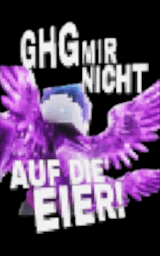
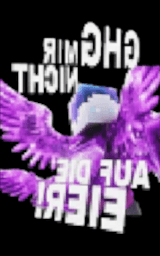
Cloudy 0.9.43: 19 neue Cloudy-Mods, Umhaenge gespiegelt, Client-Stand-Pruefung toleranter
Claude-Session: https://claude.ai/code/session_01WuMU7WTSMorevmWatAx2c9

diff --git a/main.js b/main.js
@@ -658,14 +658,18 @@ const clientFile = path.join(app.getPath('userData'), 'client.json');
 const capeFile = path.join(app.getPath('userData'), 'cape.png');
 const userClientDir = path.join(app.getPath('userData'), 'client');
 const jarMarks = new Map(); // Pfad+Änderungszeit -> hat das Jar den aktuellen Stand?
-const jarFresh = f => { try { const k = f + ':' + fs.statSync(f).mtimeMs; if (jarMarks.has(k)) return jarMarks.get(k); const z = openZip(f); let ok = false; try { ok = z.has('app/cloudy/client/CosmeticsScreen.class') && z.has('cloudy-cos/build-' + CLIENT_BUILD + '.txt'); } finally { z.close(); } jarMarks.set(k, ok); return ok; } catch { return false; } };
+const vNum = v => String(v || '').split('.').map(x => parseInt(x, 10) || 0);
+const buildGE = (a, b) => { const x = vNum(a), y = vNum(b); for (let i = 0; i < 3; i++) { if ((x[i] || 0) !== (y[i] || 0)) return (x[i] || 0) > (y[i] || 0); } return true; }; // gleicher oder neuerer Client-Stand zaehlt als aktuell
+const zipBuild = z => { let best = ''; for (const n of z.names()) { const q = /^cloudy-cos\/build-(\d+\.\d+\.\d+)\.txt$/.exec(n); if (q && (!best || buildGE(q[1], best))) best = q[1]; } return best; };
+const jarFresh = f => { try { const k = f + ':' + fs.statSync(f).mtimeMs; if (jarMarks.has(k)) return jarMarks.get(k); const z = openZip(f); let ok = false; try { ok = z.has('app/cloudy/client/CosmeticsScreen.class') && buildGE(zipBuild(z), CLIENT_BUILD); } finally { z.close(); } jarMarks.set(k, ok); return ok; } catch { return false; } };
 const clientJar = mc => { // das Jar mit dem aktuellen Stand gewinnt (z. B. das mitgelieferte aus dem Release), sonst das erste vorhandene – so wird nicht unnötig minutenlang neu gebaut
   const c = (mc ? [path.join(userClientDir, `cloudy-client-${mc}.jar`), ...(mc === '1.21.4' ? [path.join(userClientDir, 'cloudy-client.jar'), path.join(__dirname, 'client', 'cloudy-client.jar')] : [])] : [path.join(userClientDir, 'cloudy-client.jar'), path.join(__dirname, 'client', 'cloudy-client.jar')]).filter(f => fs.existsSync(f));
   return c.find(jarFresh) || c[0];
 };
 const isAdminNow = () => { try { const u = currentUser && readAuth().users[currentUser.toLowerCase()]; return !!(u && u.admin); } catch { return false; } };
-const CLIENT_BUILD = '0.9.42'; // Stand der Client-Mod (nicht die Launcher-Version) – passend zu client-src/.../cloudy-cos/build-<Stand>.txt
-const clientHasCosmetics = mc => { const j = clientJar(mc); if (!j) return false; try { const z = openZip(j); try { return z.has('app/cloudy/client/CosmeticsScreen.class') && z.has('cloudy-cos/build-' + CLIENT_BUILD + '.txt'); } finally { z.close(); } } catch { return false; } };
+const CLIENT_BUILD = '0.9.43'; // Stand der Client-Mod (nicht die Launcher-Version) – passend zu client-src/.../cloudy-cos/build-<Stand>.txt
+const clientHasCosmetics = mc => { const j = clientJar(mc); return !!j && jarFresh(j); };
+const clientBuildOf = mc => { const j = clientJar(mc); if (!j) return ''; try { const z = openZip(j); try { return zipBuild(z) || '(ohne Stand)'; } finally { z.close(); } } catch { return '(unlesbar)'; } };
 
 // Eigener Classpath fuer neue Minecraft-Versionen (26.x): die Bibliotheksliste von minecraft-launcher-core bleibt dort leer (Fehler: KnotClient nicht gefunden)
 async function buildClasspath(custom, mc) {
@@ -770,7 +774,7 @@ function saveCape(buf) {
   if (w < 64 || w % 64 || h * 2 !== w) throw new Error(`Umhang muss 64×32 sein (oder 128×64 …). Deine Datei: ${w}×${h}.`);
   fs.writeFileSync(capeFile, buf);
 }
-ipcMain.handle('clientStatus', (_e, mc) => ({ unlocked: unlocked(), jar: !!clientJar(mc ? bv(mc) : undefined), cosmetics: clientHasCosmetics(mc ? bv(mc) : undefined), building: clientBuilding, src: fs.existsSync(path.join(__dirname, 'client-src', 'build.gradle')), supported: !mc || mcOk(bv(mc)) ? [bv(mc || '1.21.4')] : CLIENT_MC, cape: hasCape() }));
+ipcMain.handle('clientStatus', (_e, mc) => ({ unlocked: unlocked(), jar: !!clientJar(mc ? bv(mc) : undefined), cosmetics: clientHasCosmetics(mc ? bv(mc) : undefined), have: clientBuildOf(mc ? bv(mc) : undefined), want: CLIENT_BUILD, building: clientBuilding, src: fs.existsSync(path.join(__dirname, 'client-src', 'build.gradle')), supported: !mc || mcOk(bv(mc)) ? [bv(mc || '1.21.4')] : CLIENT_MC, cape: hasCape() }));
 ipcMain.handle('clientUnlock', (_e, code) => {
   const a = crypto.createHash('sha256').update(String(code || '').trim()).digest(), b = Buffer.from(CODE_HASH, 'hex');
   if (!crypto.timingSafeEqual(a, b)) return { ok: false };

diff --git a/assets/js/shop.js b/assets/js/shop.js
@@ -422,7 +422,7 @@ const row = (lab, help, field) => `<div class="limrow" style="margin:8px 0"><div
     const el = $('#shopCl'); if (!el) return;
     const c = await window.cloudy.clientStatus(version), L2 = x => L(x); let msg, btn = '', cls = '';
     if (building || c.building) { msg = buildStatus || 'Die Client-Mod wird gebaut …'; }
-    else if (!c.jar || !c.cosmetics) { msg = !c.jar ? 'Die Client-Mod für diese Version fehlt noch – ohne sie zeigt Minecraft keine Cosmetics.' : 'Deine Client-Mod ist veraltet und kennt die Cosmetics noch nicht.'; btn = c.src ? '<button class="btn" id="clBuild">Client-Mod jetzt bauen</button>' : '<span class="muted">Quellen fehlen – installiere die komplette Cloudy-Version neu.</span>'; }
+    else if (!c.jar || !c.cosmetics) { msg = !c.jar ? 'Die Client-Mod für diese Version fehlt noch – ohne sie zeigt Minecraft keine Cosmetics.' : 'Deine Client-Mod ist veraltet und kennt die Cosmetics noch nicht.' + ` (Stand ${c.have || '?'}, nötig ${c.want || '?'})`; btn = c.src ? '<button class="btn" id="clBuild">Client-Mod jetzt bauen</button>' : '<span class="muted">Quellen fehlen – installiere die komplette Cloudy-Version neu.</span>'; }
     else if (!c.supported.includes(bvr(version))) { msg = `Cosmetics gibt es im Spiel ab Minecraft 1.21.4 (gewählt: ${version}).`; btn = `<button class="btn" id="clVer">Auf 1.21.4 wechseln</button>`; }
     else { msg = `✓ Bereit: Deine Cosmetics erscheinen in Minecraft ${version} (mit Fabric).`; cls = 'ok'; }
     el.innerHTML = `<div style="font-weight:700">${L2(msg)}</div>${buildLog ? `<small class="muted" style="white-space:pre-wrap;word-break:break-all">${esc(buildLog)}</small>` : ''}${btn}`;

diff --git a/lib/zipread.js b/lib/zipread.js
@@ -25,6 +25,7 @@ function openZip(file) {
     }
     return {
       has: n => map.has(n),
+      names: () => [...map.keys()],
       read(name, max = 4 * 1024 * 1024) {
         const t = map.get(name);
         if (!t || t.usize > max) return null;

diff --git a/client-src/src/main/java/app/cloudy/client/Extras.java b/client-src/src/main/java/app/cloudy/client/Extras.java
@@ -1,0 +1,132 @@
+package app.cloudy.client;
+
+import net.minecraft.client.MinecraftClient;
+import net.minecraft.entity.effect.StatusEffectInstance;
+import net.minecraft.item.ItemStack;
+import net.minecraft.item.Items;
+import net.minecraft.text.Text;
+import net.minecraft.util.hit.BlockHitResult;
+import net.minecraft.util.hit.HitResult;
+import net.minecraft.util.math.BlockPos;
+
+import java.util.ArrayList;
+import java.util.List;
+import java.util.Locale;
+
+/** Zusatz-Mods von Cloudy Mods: Anzeigen (Biom, Licht, Nether-Koordinaten, Tag, Haltbarkeit, Pfeile, Traenke, Effekte, Server, Spielzeit, Todespunkt, Essen, Leben, Blickziel)
+ *  und Komfort (Tooltips mit Haltbarkeit, Todespunkt im Chat, Auto-GG). Alles eigener Code, jeder Schalter steht in Cloudy Mods und ist standardmaessig aus. */
+public final class Extras {
+	private static final long START = System.currentTimeMillis();
+	private static String death;
+	private static boolean wasDead;
+	private static long lastGg;
+
+	public static void init() {
+		try {
+			net.fabricmc.fabric.api.client.event.lifecycle.v1.ClientTickEvents.END_CLIENT_TICK.register(Extras::tick);
+		} catch (Throwable ignored) {}
+		// Tooltips: je nach Fabric-API-Version liegt der Callback in einem anderen Paket – darum ueber Reflection, damit der Build nie daran scheitert
+		for (String cn : new String[]{"net.fabricmc.fabric.api.client.item.v1.ItemTooltipCallback", "net.fabricmc.fabric.api.item.v1.ItemTooltipCallback"}) {
+			try {
+				Class<?> cb = Class.forName(cn);
+				Object ev = cb.getField("EVENT").get(null);
+				Object proxy = java.lang.reflect.Proxy.newProxyInstance(cb.getClassLoader(), new Class<?>[]{cb}, (pr, m, a) -> {
+					if (m.getDeclaringClass() == Object.class) return m.getName().equals("hashCode") ? System.identityHashCode(pr) : m.getName().equals("equals") ? pr == a[0] : "tooltip";
+					try { tooltip((ItemStack) a[0], (List<Text>) a[a.length - 1]); } catch (Throwable ignored) {}
+					return null;
+				});
+				ev.getClass().getMethod("register", Object.class).invoke(ev, proxy);
+				break;
+			} catch (Throwable ignored) {}
+		}
+		try {
+			net.fabricmc.fabric.api.client.message.v1.ClientReceiveMessageEvents.GAME.register((msg, overlay) -> {
+				try {
+					if (overlay || !ModConfig.isOn("autogg")) return;
+					String s = msg.getString().toLowerCase(Locale.ROOT);
+					long now = System.currentTimeMillis();
+					if (now - lastGg < 30000) return;
+					if (s.contains("you won") || s.contains("winner") || s.contains("game over") || s.contains("victory")) {
+						MinecraftClient mc = MinecraftClient.getInstance();
+						if (mc.player != null && mc.getNetworkHandler() != null) { lastGg = now; mc.getNetworkHandler().sendChatMessage("gg"); }
+					}
+				} catch (Throwable ignored) {}
+			});
+		} catch (Throwable ignored) {}
+	}
+
+	@SuppressWarnings("unchecked")
+	private static void tooltip(ItemStack stack, List<Text> lines) {
+		if (!ModConfig.isOn("tooltips") || stack == null || stack.isEmpty()) return;
+		if (stack.isDamageable()) lines.add(Text.literal("Durability: " + (stack.getMaxDamage() - stack.getDamage()) + " / " + stack.getMaxDamage()).formatted(net.minecraft.util.Formatting.GRAY));
+		lines.add(Text.literal(net.minecraft.registry.Registries.ITEM.getId(stack.getItem()).toString()).formatted(net.minecraft.util.Formatting.DARK_GRAY));
+	}
+
+	private static void tick(MinecraftClient mc) {
+		try {
+			if (mc.player == null) { wasDead = false; return; }
+			boolean dead = mc.player.getHealth() <= 0f || mc.player.isDead();
+			if (dead && !wasDead) {
+				death = String.format("%.0f / %.0f / %.0f", mc.player.getX(), mc.player.getY(), mc.player.getZ());
+				if (ModConfig.isOn("deathpos")) mc.player.sendMessage(Text.literal("Cloudy: you died at " + death), false);
+			}
+			wasDead = dead;
+		} catch (Throwable ignored) {}
+	}
+
+	private static int count(MinecraftClient mc, java.util.function.Predicate<ItemStack> p) {
+		int n = 0; var inv = mc.player.getInventory();
+		for (int i = 0; i < inv.size(); i++) { ItemStack st = inv.getStack(i); if (!st.isEmpty() && p.test(st)) n += st.getCount(); }
+		return n;
+	}
+
+	private static String time(int ticks) { int s = Math.max(0, ticks / 20); return (s / 60) + ":" + String.format("%02d", s % 60); }
+
+	/** Text eines Extras-Chips oder null (dann wird nichts angezeigt). */
+	public static String text(String id, MinecraftClient mc) {
+		try {
+			var p = mc.player; var w = mc.world;
+			switch (id) {
+				case "biome": { var k = w.getBiome(p.getBlockPos()).getKey(); return k.isPresent() ? "Biome: " + pretty(k.get().getValue().getPath()) : null; }
+				case "light": return "Light: " + w.getLightLevel(p.getBlockPos());
+				case "nether": {
+					boolean nether = w.getRegistryKey() == net.minecraft.world.World.NETHER;
+					return nether ? String.format("Overworld %.0f / %.0f", p.getX() * 8, p.getZ() * 8) : String.format("Nether %.0f / %.0f", p.getX() / 8, p.getZ() / 8);
+				}
+				case "day": { long t = w.getTimeOfDay(); long d = t / 24000L, tod = t % 24000L; int h = (int) ((tod / 1000 + 6) % 24), m = (int) ((tod % 1000) * 60 / 1000); return String.format("Day %d  %02d:%02d", d + 1, h, m); }
+				case "durability": { ItemStack st = p.getMainHandStack(); return st.isDamageable() ? "Durability: " + (st.getMaxDamage() - st.getDamage()) + "/" + st.getMaxDamage() : null; }
+				case "arrows": return "Arrows: " + count(mc, s -> s.isOf(Items.ARROW) || s.isOf(Items.SPECTRAL_ARROW) || s.isOf(Items.TIPPED_ARROW));
+				case "potions": return "Potions: " + count(mc, s -> s.isOf(Items.POTION) || s.isOf(Items.SPLASH_POTION) || s.isOf(Items.LINGERING_POTION));
+				case "held": { ItemStack st = p.getMainHandStack(); if (st.isEmpty()) return null; Object it = st.getItem(); int n = count(mc, s -> s.getItem() == it); return st.getName().getString() + ": " + n; }
+				case "server": { var e = mc.getCurrentServerEntry(); return e == null ? "Singleplayer" : e.address; }
+				case "session": { long s = (System.currentTimeMillis() - START) / 1000; return String.format("Session %d:%02d:%02d", s / 3600, (s / 60) % 60, s % 60); }
+				case "effects": {
+					List<String> l = new ArrayList<>();
+					for (StatusEffectInstance e : p.getStatusEffects()) { if (l.size() >= 3) break; l.add(e.getEffectType().value().getName().getString() + (e.getAmplifier() > 0 ? " " + (e.getAmplifier() + 1) : "") + " " + (e.isInfinite() ? "∞" : time(e.getDuration()))); }
+					return l.isEmpty() ? null : String.join("  ·  ", l);
+				}
+				case "death": return death == null ? null : "Death: " + death;
+				case "food": return String.format("Food %d  Sat %.1f", p.getHungerManager().getFoodLevel(), p.getHungerManager().getSaturationLevel());
+				case "health": return String.format("HP %.1f", p.getHealth() + p.getAbsorptionAmount());
+				case "target": {
+					HitResult h = mc.crosshairTarget;
+					if (h instanceof BlockHitResult bh && h.getType() == HitResult.Type.BLOCK) { BlockPos bp = bh.getBlockPos(); return "Looking at: " + w.getBlockState(bp).getBlock().getName().getString(); }
+					return null;
+				}
+				default: return null;
+			}
+		} catch (Throwable t) { return null; }
+	}
+
+	private static String pretty(String s) { String[] a = s.split("_"); StringBuilder b = new StringBuilder(); for (String x : a) { if (x.isEmpty()) continue; if (b.length() > 0) b.append(' '); b.append(Character.toUpperCase(x.charAt(0))).append(x.substring(1)); } return b.toString(); }
+
+	public static final String[] IDS = {"biome", "light", "nether", "day", "durability", "arrows", "potions", "held", "server", "session", "effects", "death", "food", "health", "target"};
+	public static boolean is(String id) { for (String s : IDS) if (s.equals(id)) return true; return false; }
+	public static String sample(String id) {
+		return switch (id) {
+			case "biome" -> "Biome: Plains"; case "light" -> "Light: 15"; case "nether" -> "Nether 16 / -4"; case "day" -> "Day 12  06:30"; case "durability" -> "Durability: 231/250";
+			case "arrows" -> "Arrows: 64"; case "potions" -> "Potions: 6"; case "held" -> "Cobblestone: 128"; case "server" -> "play.example.net"; case "session" -> "Session 0:42:10";
+			case "effects" -> "Speed 2 1:42"; case "death" -> "Death: 128 / 64 / -32"; case "food" -> "Food 20  Sat 5.0"; case "health" -> "HP 20.0"; case "target" -> "Looking at: Stone"; default -> id;
+		};
+	}
+}

diff --git a/client-src/src/main/java/app/cloudy/client/ModConfig.java b/client-src/src/main/java/app/cloudy/client/ModConfig.java
@@ -39,6 +39,25 @@ public final class ModConfig {
 		new Def("mousefx_trail", "  Cursor trail", "QoL", "Soft trail behind the cursor (needs Mouse effects)"),
 		new Def("totem", "Totem counter", "HUD", "Shows how many Totems of Undying you carry (turns red at zero)"),
 		new Def("hotbar", "Custom hotbar", "QoL", "Dark, theme or custom-color hotbar and hearts (set colors in Options)"),
+				new Def("biome", "Biome", "HUD", "Name of the biome you are in"),
+		new Def("light", "Light level", "HUD", "Light level at your feet (mobs spawn at 0)"),
+		new Def("nether", "Nether coordinates", "HUD", "Matching Nether / Overworld coordinates (x8 / ÷8)"),
+		new Def("day", "Day counter", "HUD", "World day and time of day"),
+		new Def("durability", "Durability", "HUD", "Durability of the tool in your hand"),
+		new Def("arrows", "Arrow counter", "HUD", "Arrows in your inventory"),
+		new Def("potions", "Potion counter", "HUD", "Potions in your inventory"),
+		new Def("held", "Item counter", "HUD", "How many of the item in your hand you carry"),
+		new Def("server", "Server address", "HUD", "The server you are playing on"),
+		new Def("session", "Session time", "HUD", "How long you have been playing"),
+		new Def("effects", "Potion effects", "HUD", "Active effects with the time left"),
+		new Def("death", "Death point", "HUD", "Where you died last"),
+		new Def("food", "Food & saturation", "HUD", "Hunger and saturation"),
+		new Def("health", "Health", "HUD", "Your hearts including absorption"),
+		new Def("target", "Block target", "HUD", "Name of the block you are looking at"),
+		new Def("nohurtcam", "No hurt cam", "QoL", "No camera shake when you take damage"),
+		new Def("tooltips", "Better tooltips", "QoL", "Item tooltips show durability and the item ID"),
+		new Def("deathpos", "Death point in chat", "QoL", "Writes your death coordinates into the chat (only you see it)"),
+		new Def("autogg", "Auto GG", "QoL", "Says gg in chat when a game ends with a win message (once per 30 s)"),
 		new Def("fullbright", "Fullbright", "QoL", "See clearly in caves and at night"));
 	private static final Map<String, Boolean> on = new HashMap<>();
 	/** Eigene Position je Widget: {x, y} als Anteil der Fenstergroesse (0..1, linke obere Ecke), {s} Groesse. */

diff --git a/client-src/src/main/java/app/cloudy/client/Hud.java b/client-src/src/main/java/app/cloudy/client/Hud.java
@@ -35,13 +35,13 @@ public final class Hud {
 	}
 
 	/** Widget-IDs, die frei verschoben werden koennen (HUD-Eintraege aus Cloudy Mods). */
-	public static final String[] MOVABLE = {"fps", "ping", "coords", "dir", "cps", "speed", "clock", "memory", "totem", "keys", "armor", "lyricscard"};
+	public static final String[] MOVABLE = {"fps", "ping", "coords", "dir", "cps", "speed", "clock", "memory", "totem", "keys", "armor", "lyricscard", "biome", "light", "nether", "day", "durability", "arrows", "potions", "held", "server", "session", "effects", "death", "food", "health", "target"};
 
 	/** Beispieltext fuer den Editor (ohne Welt). */
 	public static String sample(String id) {
 		return switch (id) {
 			case "fps" -> "144 FPS"; case "ping" -> "Ping: 23 ms"; case "coords" -> "XYZ 128 / 64 / -32"; case "dir" -> "NE 212\u00b0";
-			case "cps" -> "4 | 2 CPS"; case "speed" -> "4.3 b/s"; case "clock" -> "21:30"; case "memory" -> "812 MB"; case "totem" -> "Totems: 3"; case "lyricscard" -> "Song"; default -> id;
+			case "cps" -> "4 | 2 CPS"; case "speed" -> "4.3 b/s"; case "clock" -> "21:30"; case "memory" -> "812 MB"; case "totem" -> "Totems: 3"; case "lyricscard" -> "Song"; default -> Extras.is(id) ? Extras.sample(id) : id;
 		};
 	}
 
@@ -126,7 +126,7 @@ public final class Hud {
 			case "clock": { java.time.LocalTime t = java.time.LocalTime.now(); return String.format("%02d:%02d", t.getHour(), t.getMinute()); }
 			case "totem": { int n = 0; var inv = mc.player.getInventory(); for (int i = 0; i < inv.size(); i++) { var st = inv.getStack(i); if (st.isOf(net.minecraft.item.Items.TOTEM_OF_UNDYING)) n += st.getCount(); } return "Totems: " + n; }
 			case "memory": { Runtime r = Runtime.getRuntime(); return ((r.totalMemory() - r.freeMemory()) >> 20) + " MB"; }
-			default: return null;
+			default: return Extras.is(id) ? Extras.text(id, mc) : null;
 		}
 	}
 

diff --git a/client-src/src/main/java/app/cloudy/client/mixin/HurtCamMixin.java b/client-src/src/main/java/app/cloudy/client/mixin/HurtCamMixin.java
@@ -1,0 +1,18 @@
+package app.cloudy.client.mixin;
+
+import app.cloudy.client.ModConfig;
+import net.minecraft.client.render.GameRenderer;
+import net.minecraft.client.util.math.MatrixStack;
+import org.spongepowered.asm.mixin.Mixin;
+import org.spongepowered.asm.mixin.injection.At;
+import org.spongepowered.asm.mixin.injection.Inject;
+import org.spongepowered.asm.mixin.injection.callback.CallbackInfo;
+
+/** "No hurt cam": die Kamera wackelt nicht mehr, wenn du Schaden nimmst. Nicht zwingend – passt die Methode nicht, bleibt alles wie im Spiel. */
+@Mixin(GameRenderer.class)
+public abstract class HurtCamMixin {
+	@Inject(method = "tiltViewWhenHurt", at = @At("HEAD"), cancellable = true, require = 0)
+	private void cloudy$noHurt(MatrixStack matrices, float tickDelta, CallbackInfo ci) {
+		try { if (ModConfig.isOn("nohurtcam")) ci.cancel(); } catch (Throwable ignored) {}
+	}
+}

diff --git a/client-src/src/main/java/app/cloudy/client/CloudyClient.java b/client-src/src/main/java/app/cloudy/client/CloudyClient.java
@@ -82,6 +82,7 @@ public class CloudyClient implements ClientModInitializer {
 		ClientTickEvents.END_CLIENT_TICK.register(mc -> { try { CosmeticNet.tick(mc); } catch (Throwable ignored) {} });
 		CreamHeist.init();
 		HudRenderCallback.EVENT.register(Hud::render);
+		try { Extras.init(); } catch (Throwable ignored) {}
 		try {
 			KeyBinding lookKey = KeyBindingHelper.registerKeyBinding(new KeyBinding("key.cloudy.freelook", InputUtil.Type.KEYSYM, GLFW.GLFW_KEY_LEFT_ALT, "category.cloudy"));
 			KeyBinding freeKey = KeyBindingHelper.registerKeyBinding(new KeyBinding("key.cloudy.freecam", InputUtil.Type.KEYSYM, GLFW.GLFW_KEY_F6, "category.cloudy"));
